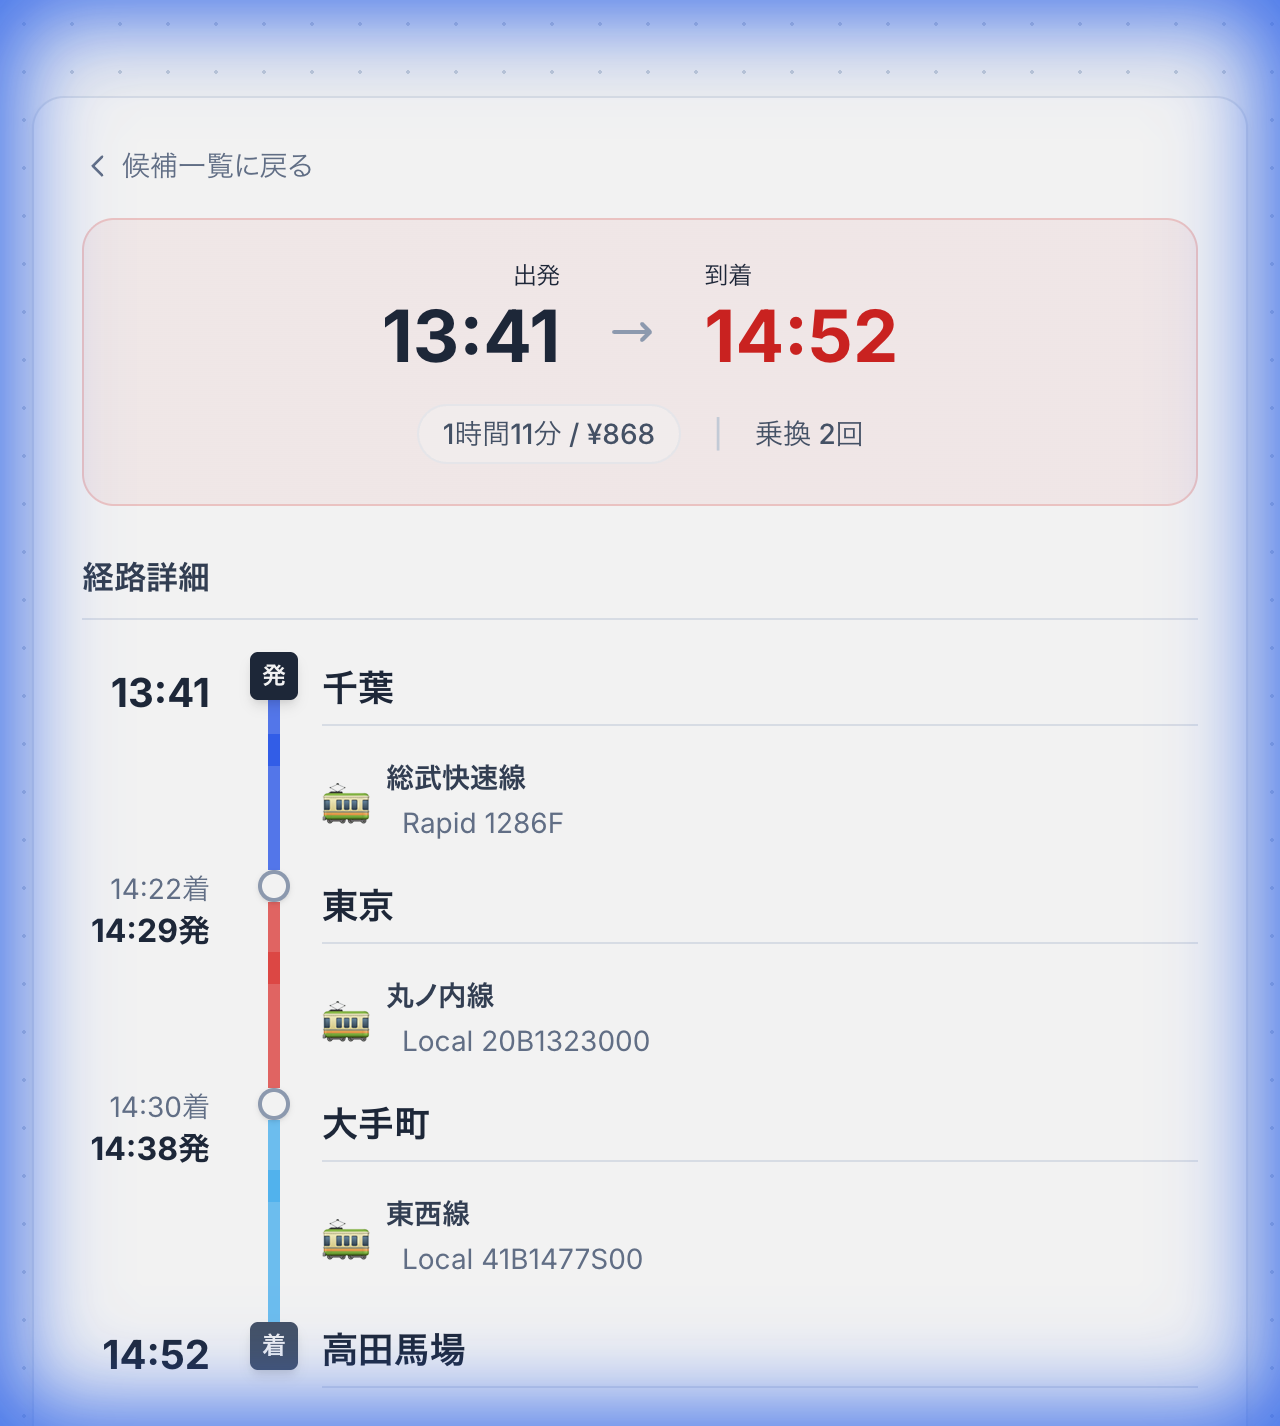
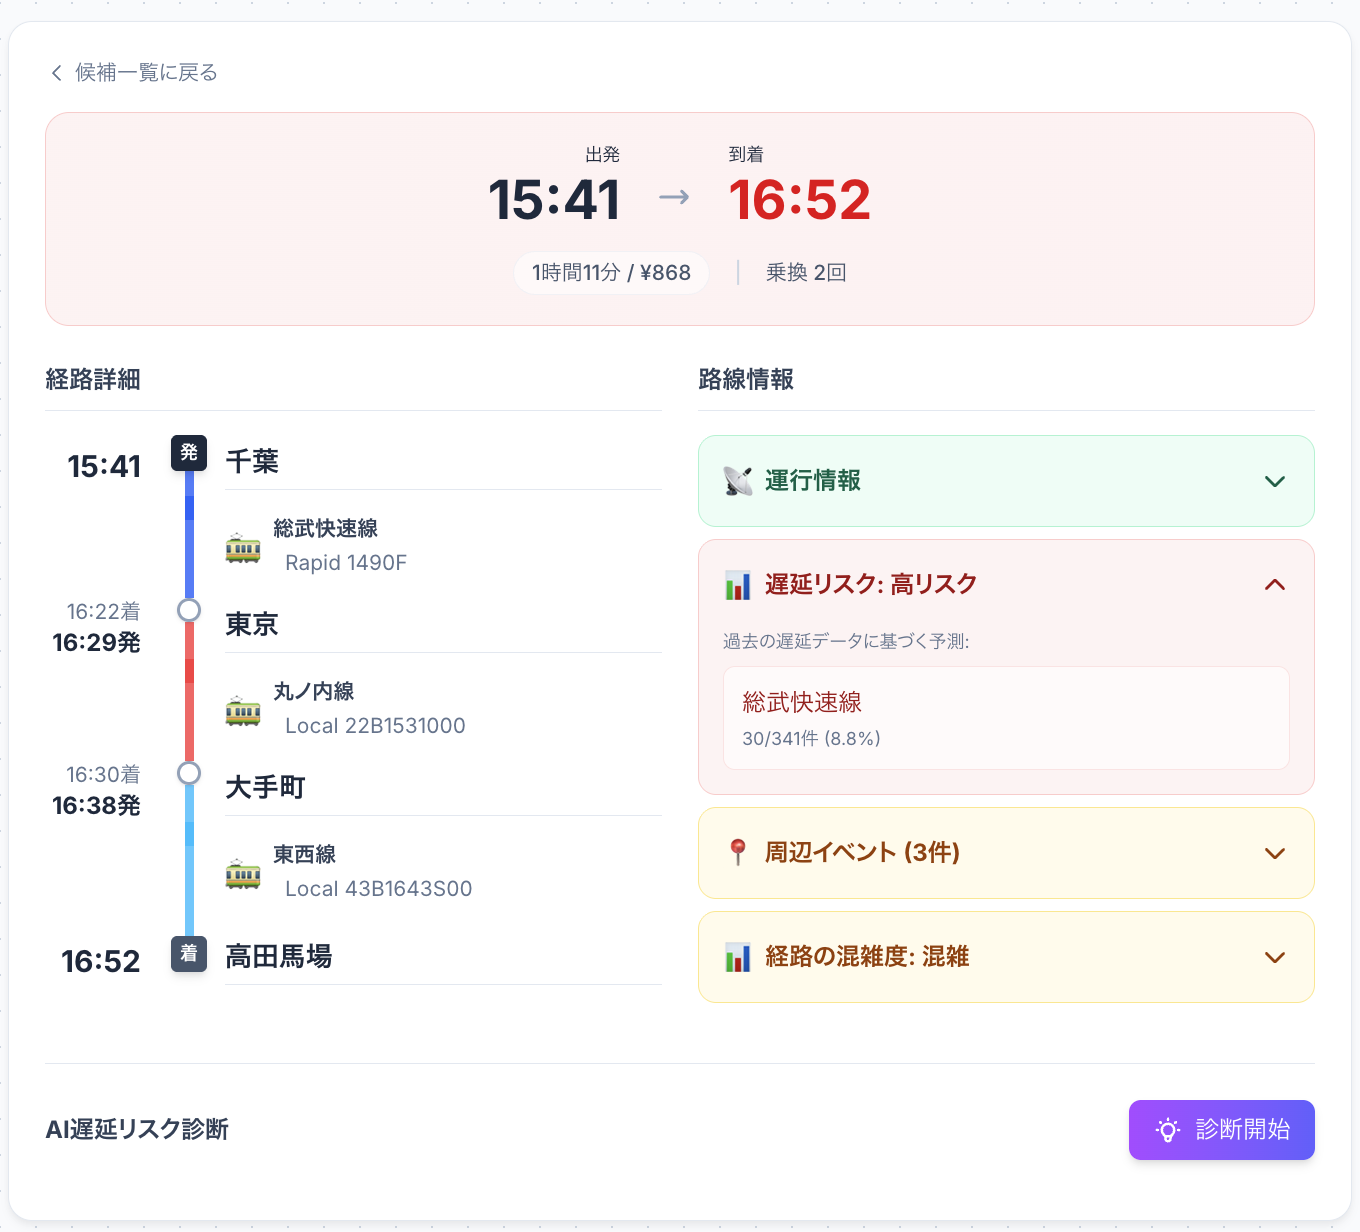
update README.md

diff --git a/README.md b/README.md
@@ -2,23 +2,73 @@
 
 [![Contest](https://img.shields.io/badge/公共交通オープンデータチャレンジ-2025-blue?style=for-the-badge)](https://challenge2025.odpt.org/)
 
-> **🛡 絶対に遅刻できないあなたのための乗換案内**  
-> 過去の運行データから遅延リスクを予測し、「安全に到着できるルート」を提案します。
+
+> **「今の時間は平常通りです」...その言葉を信じて遅刻したことはありませんか？**
+> 
+> 既存の乗換案内は「現在」の遅延しか教えてくれません。しかし、私たちは**未来**を予測します。
+> 過去の膨大な運行データから**今の平穏に隠れた遅延リスク**を暴き出し、「絶対に遅刻できないあなた」を目的地まで安全に送り届ける。それが『ノー遅延乗り換え』です。
 
 ---
 
 ## 本番サイト
 
-**[https://opendata.tatsuki.dev](https://opendata.tatsuki.dev)**
+<div align="center">
 
-<p align="center">
-  <img src="docs/landing_page.png" width="300" alt="トップ画面">
-  <img src="docs/route_detail.png" width="300" alt="経路詳細画面">
-</p>
+**[👉 https://opendata.tatsuki.dev](https://opendata.tatsuki.dev)**
+
+<img src="docs/index.png" width="48%" alt="トップ画面" style="border-radius: 10px; box-shadow: 0 4px 8px rgba(0,0,0,0.1);">
+<img src="docs/route_list.png" width="48%" alt="検索画面" style="border-radius: 10px; box-shadow: 0 4px 8px rgba(0,0,0,0.1);">
+<img src="docs/route_detail.png" width="48%" alt="経路詳細画面" style="border-radius: 10px; box-shadow: 0 4px 8px rgba(0,0,0,0.1);">
+
+</div>
 
 ---
 
-##  使い方ガイド
+##  コンテストに向けた技術的挑戦
+
+本アプリケーションは、既存のAPIをラップしただけのツールではありません。
+**「いかに速く着くか」ではなく「いかに確実に着くか」** という問いに答えるため、以下のコア技術を**フルスクラッチで独自実装**しました。
+
+### 1. 独自実装のグラフ探索エンジン（脱・既存API）
+通常の乗換案内APIでは「最短経路」が優先され、「少し遠回りでもリスクの低いルート」を柔軟に探すことは困難です。そこで、私たちはグラフ構造の構築から探索アルゴリズム（Dijkstra法）までを完全に内製化しました。
+
+- **動的ウェイト制御**:
+    - 距離や時間だけでなく、「乗り換えの複雑さ」「混雑イベント」「過去の遅延傾向」をコストとして重み付け。
+    - **「時間はかかるが、絶対に座れて遅延も少ない地下鉄ルート」** のような提案を可能にしました。
+- **ペナルティ法による強制迂回**:
+    - 通常の探索で見つかった主要ルートに仮想的なペナルティを与えて再探索することで、**物理的に異なる代替ルート（迂回路）** を強制的に導出。事故で主要幹線が全滅した際も、生き残っているルートを即座に提示します。
+
+### 2. 未来のリスクを可視化する "Predictive Risk Engine"
+「今、遅れていない」ことは「これからも遅れない」ことを保証しません。
+
+- **独自のデータ蓄積**:
+    - オープンデータAPIを継続的に監視し、**数ヶ月にわたるリアルタイム遅延データ**を蓄積・解析。
+- **リスクの数値化**:
+    - 「金曜日、xx線のxx時台は遅延確率が30%上がる」といった傾向を統計的に導出し、**現在は正常運行でも、到着予定時刻に遅延するリスクが高いルート**には警告を出します。
+
+### 3. AIコンシェルジュによる意思決定支援
+数字だけでは伝わらない「現場の空気感」を伝えるため、生成AI (GPT-4o-mini) を統合しました。
+- 「このルートは乗換回数は少ないですが、イベント終了後のドーム周辺を通るため、避けた方が無難です」
+
+といった、**コンシェルジュのような定性的なアドバイス**を提供します。
+
+---
+
+## 機能ハイライト
+
+### ユーザーの意思決定を支える「4軸スコアリング」
+単一の正解を押し付けることはしません。4つの指標でルートを評価し、ユーザーの状況に合わせて選べるようにしています。
+
+| 指標 | 説明 |
+|---|---|
+| **速さ** | 単純な所要時間。急いでいる時に。 |
+| **快適** | 混雑度や乗り換え回数を考慮。疲れている時に。 |
+| **安定** | 過去の統計に基づく遅延リスクの低さ。重要な予定の時に。 |
+| **安さ** | 運賃の安さ。 |
+
+---
+
+## 📖 使い方ガイド
 
 ### Step 1: 出発駅・到着駅を入力
 トップ画面で出発駅と到着駅を入力します。クイック設定ボタンで時刻をワンタップ選択できます。
@@ -27,103 +77,69 @@
 「🛡 安全なルートを検索」ボタンをタップすると、複数のルート候補が表示されます。
 
 ### Step 3: ルートを比較
-各ルートには4つのスコアが表示されます:
-- **速さ** ⏱ : 所要時間
-- **快適** 🛋 : 混雑度・乗り換えの楽さ
-- **安定** 🛡 : 遅延リスクの低さ（独自指標）
-- **安さ** 💰 : 運賃
+スコアやAIのアドバイスを参考にルートを選びます。
 
 ### Step 4: 詳細を確認
 「詳細を見る」で経路のタイムラインを表示。リスクの高い区間は色で強調されます。
 
 ---
 
-## 技術的な独自性
-
-### 1. 完全独自の経路探索エンジン
-既存のAPIをラップするのではなく、**グラフ構造の構築から探索アルゴリズム（ダイクストラ法）までをフルスクラッチで独自実装**しました。これにより、通常の乗換案内APIでは不可能な、柔軟なルート提案を実現しています。
-
-- **乗り換え抵抗の動的制御**
-  - 「最短時間」だけでなく、「時間はかかるが乗り換えが楽なルート」など、ユーザーの好みに合わせた多様な解を生成可能。
-- **迂回提案**
-  - 発見したルートに仮想的なコスト（ペナルティ）を与えて再探索することで、**物理的に異なる迂回ルートを強制的に提案**します。事故などのトラブル時にも強いネットワークを構築。
-
-### 2. 未来のリスク予測
-- 単なる「現在の遅延情報」の表示にとどまらず、**過去の統計データとイベント情報**を掛け合わせ、「今は遅れていないが、これから遅れる可能性が高い」という**潜在リスクを可視化**します。
-
-### 3. 意思決定支援インターフェース
-- **4軸スコアリング**: 「速さ」一辺倒ではなく「安定」「快適」「安さ」を加えた多角的な指標でルートを評価。
-- **AI Concierge**: 生成AIがルートの文脈（混雑イベントなど）を読み解き、「荷物が多いならこのルートは避けるべき」といった定性的なアドバイスを提供。
-
-### 4. マルチソースデータ統合
-- **ODPT API + GTFS** データを統合し、JR東日本・東京メトロ・都営地下鉄を横断したシームレスなグラフネットワークを構築。
-
----
-
 ## 技術スタック
 
-### Backend
-![Python](https://img.shields.io/badge/python-3670A0?style=for-the-badge&logo=python&logoColor=ffdd54) ![FastAPI](https://img.shields.io/badge/FastAPI-005571?style=for-the-badge&logo=fastapi) ![OpenAI](https://img.shields.io/badge/OpenAI-412991.svg?style=for-the-badge&logo=openai&logoColor=white) ![DigitalOcean](https://img.shields.io/badge/DigitalOcean-%230167ff.svg?style=for-the-badge&logo=digitalOcean&logoColor=white)
+堅牢なバックエンドと、UXを追求したフロントエンドをモダンな技術で統合しています。
 
-- **Python 3.12** / **FastAPI**
-- **SQLite + SQLAlchemy**: グラフデータと統計データの高速処理
-- **OpenAI API**: GPT-4o-mini による診断
-- **ODPT API & GTFS**: JR東日本、東京メトロ、都営地下鉄のデータを統合
+### Backend
+- **Core**: Python 3.12, **FastAPI**
+- **Database**: PostgreSQL
+- **AI**: OpenAI API (GPT-4o-mini)
+- **Data Source**: ODPT API, GTFS-RT (JR東日本, 東京メトロ, 都営地下鉄)
 
 ### Frontend
-![Vite](https://img.shields.io/badge/vite-%23646CFF.svg?style=for-the-badge&logo=vite&logoColor=white) ![TailwindCSS](https://img.shields.io/badge/tailwindcss-%2338B2AC.svg?style=for-the-badge&logo=tailwind-css&logoColor=white) ![JavaScript](https://img.shields.io/badge/javascript-%23323330.svg?style=for-the-badge&logo=javascript&logoColor=%23F7DF1E) ![GitHub Pages](https://img.shields.io/badge/github%20pages-121013?style=for-the-badge&logo=github&logoColor=white)
+- **Framework**: **Vite** + Vanilla JavaScript
+- **Styling**: **Tailwind CSS v4**
+- **Hosting**: GitHub Pages
 
-- **Vite** / **JavaScript** (No Framework overhead)
-- **Tailwind CSS v4**: 最新のスタイリングエンジン
-
-### Deployment Architecture
-**完全自動化された、スケーラブルな遅延予測サービス** を目指し、以下の構成で運用します。
-
-| Layer | Service | Details |
-|---|---|---|
-| **Frontend** | **GitHub Pages** | 静的ホスティング。`VITE_API_URL`でバックエンドと通信。 |
-| **Backend** | **DigitalOcean App Platform** | Dockerコンテナとしてデプロイ。オートスケール対応。 |
-| **Database** | **DO Managed PostgreSQL** | SQLiteから移行。フルマネージドで運用。 |
-| **Automation** | **GitHub Actions** | 10分毎にデータを収集し、直接DBへINSERT。 |
-
+### Infrastructure / DevOps
+- **Hosting**: DigitalOcean App Platform (Backend), GitHub Pages (Frontend)
+- **CI/CD**: GitHub Actions (10分ごとのデータ収集・自動デプロイ)
 
 ---
 
-## ディレクトリ構成
-```
+## 📂 ディレクトリ構成
+
+```plaintext
 .
 ├── backend/
-│   ├── main.py              # Entry point
-│   ├── routers/             # API Endpoints (AI, Search, Stations)
-│   ├── services/            # Core Logic (Risk, Routing, Venue)
-│   ├── scripts/             # Data fetchers & importers
-│   │   ├── fetchers/        # Raw data collectors
-│   │   └── importers/       # DB importers
-│   └── data/                # Raw Data & SQLite DB
+│   ├── main.py              # アプリケーションエントリーポイント
+│   ├── services/            # コアロジック
+│   │   ├── routing.py       # 独自グラフ探索エンジン
+│   │   ├── risk.py          # 遅延リスク予測ロジック
+│   │   └── ai.py            # AIコンシェルジュ
+│   ├── scripts/             # データ収集基盤
+│   │   └── fetchers/        # 継続的なデータ収集スクリプト群
+│   └── data/                # 蓄積された統計データ
 │
 └── frontend/
-    ├── src/
-    │   ├── components/      # UI Components (Timeline, Risk Cards)
-    │   └── pages/           # Page Logic
-    └── index.html
+    ├── src/                 # UIロジック
+    └── index.html           # エントリーポイント
 ```
 
 ---
 
-## 📂 使用したオープンデータ
+## 使用したオープンデータ
 
-本アプリケーションは、以下のオープンデータを活用しています。
+本アプリケーションは、以下のオープンデータを活用し、独自の解析を加えて価値を創出しています。
 
-| データ提供元 | データ種別 | 用途 |
+| データ提供元 | データ種別 | 活用方法 |
 |---|---|---|
 | [公共交通オープンデータセンター](https://ckan.odpt.org/) | ODPT API | リアルタイム運行情報・遅延情報の取得 |
-| JR東日本 | GTFS / GTFS-RT | 時刻表・リアルタイム列車位置情報 |
-| 東京メトロ | 列車運行情報API | 運行状況・遅延情報 |
-| 都営地下鉄 | 運行データ | 時刻表・運行状況 |
+| JR東日本 | GTFS / GTFS-RT | 時刻表・リアルタイム列車位置情報の解析 |
+| 東京メトロ | 列車運行情報API | 運行履歴の統計分析 |
+| 都営地下鉄 | 運行データ | 独自グラフネットワークの構築 |
 
 > **ライセンス**: 公共交通オープンデータセンターが定める[利用規約](https://developer.odpt.org/terms)に基づき利用しています。
 
 ---
 
-## ライセンス
+## License
 MIT License
